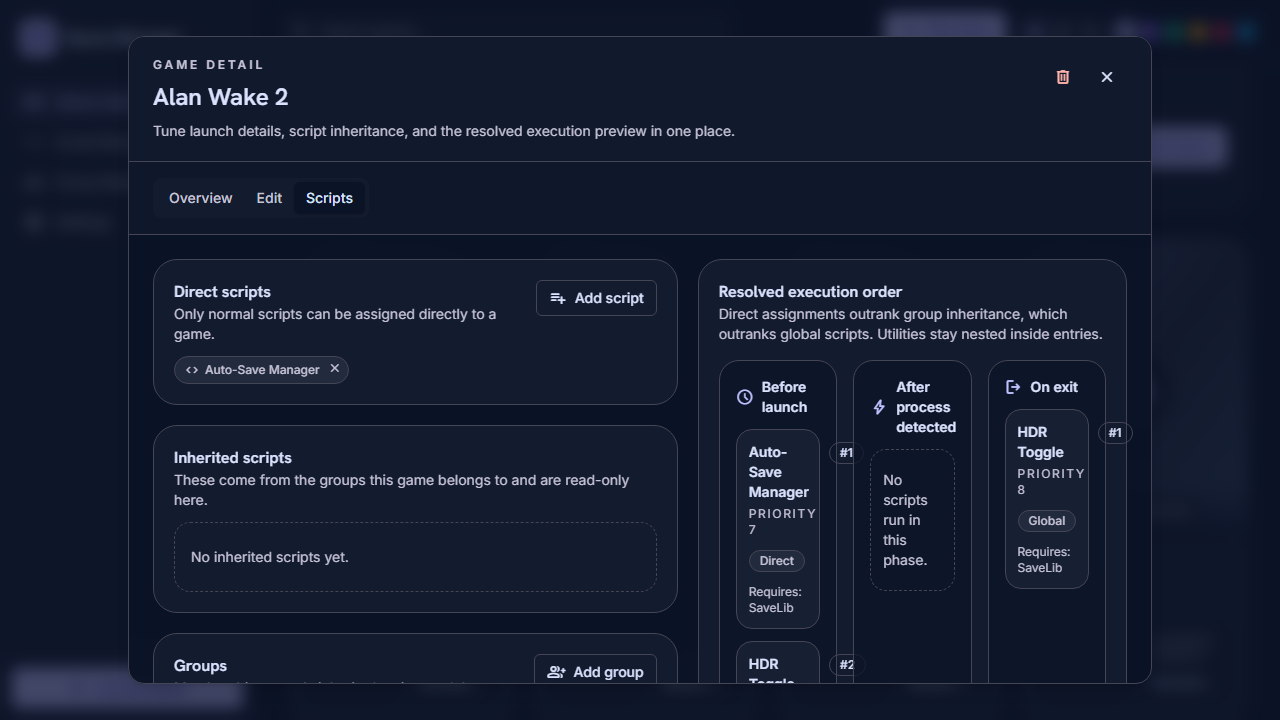
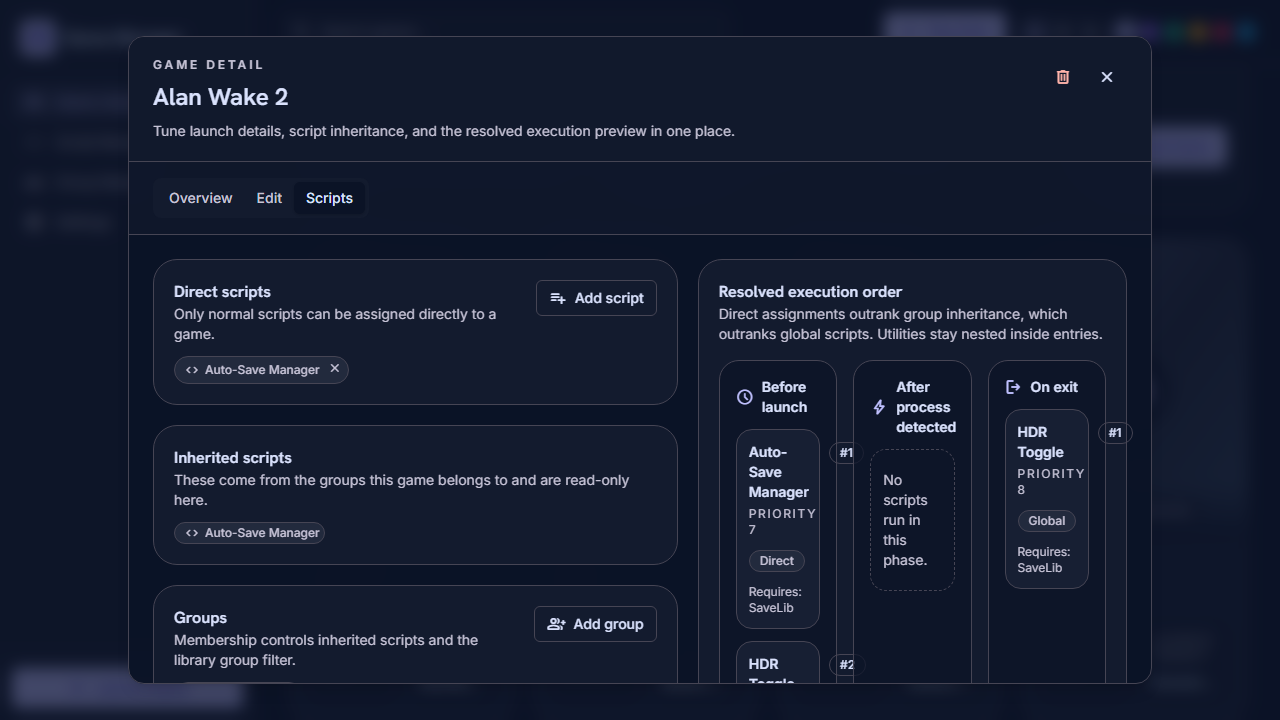
Update tests for game and group management by adding rollback scenarios for failed mutations. Enhance integration tests to validate error handling for missing required fields and logging behavior when external API calls fail. Update screenshots for game detail views to reflect recent changes.

diff --git a/src/tests/lib/queries/use-games.test.tsx b/src/tests/lib/queries/use-games.test.tsx
@@ -183,4 +183,44 @@ describe('game mutations', () => {
     expect(client.getQueryData(gameDetailQueryKey(1))).toEqual({ ...GAME_ROW, scriptIds: [8] })
     expect(client.getQueryState(resolvedScriptsQueryKey(1))?.isInvalidated).toBe(true)
   })
+
+  it('rolls back optimistic group ids when set_game_groups fails', async () => {
+    ipc.override('set_game_groups', () => {
+      throw new Error('network down')
+    })
+
+    const { client, Wrapper } = createWrapper()
+    const previousGame = { ...GAME_ROW, groupIds: [5] }
+    client.setQueryData(GAMES_QUERY_KEY, [previousGame])
+    client.setQueryData(gameDetailQueryKey(1), previousGame)
+
+    const mutation = renderHook(() => useSetGameGroupsMutation(), { wrapper: Wrapper })
+
+    await expect(
+      mutation.result.current.mutateAsync({ gameId: 1, groupIds: [2, 1] })
+    ).rejects.toThrow('network down')
+
+    expect(client.getQueryData(GAMES_QUERY_KEY)).toEqual([previousGame])
+    expect(client.getQueryData(gameDetailQueryKey(1))).toEqual(previousGame)
+  })
+
+  it('rolls back optimistic script ids when set_game_scripts fails', async () => {
+    ipc.override('set_game_scripts', () => {
+      throw new Error('save failed')
+    })
+
+    const { client, Wrapper } = createWrapper()
+    const previousGame = { ...GAME_ROW, scriptIds: [3] }
+    client.setQueryData(GAMES_QUERY_KEY, [previousGame])
+    client.setQueryData(gameDetailQueryKey(1), previousGame)
+
+    const mutation = renderHook(() => useSetGameScriptsMutation(), { wrapper: Wrapper })
+
+    await expect(
+      mutation.result.current.mutateAsync({ gameId: 1, scriptIds: [8] })
+    ).rejects.toThrow('save failed')
+
+    expect(client.getQueryData(GAMES_QUERY_KEY)).toEqual([previousGame])
+    expect(client.getQueryData(gameDetailQueryKey(1))).toEqual(previousGame)
+  })
 })

diff --git a/src/tests/lib/queries/use-groups.test.tsx b/src/tests/lib/queries/use-groups.test.tsx
@@ -197,4 +197,23 @@ describe('group mutations', () => {
     await waitFor(() => expect(gamesVersion).toBeGreaterThan(0))
     gamesQuery.unmount()
   })
+
+  it('rolls back optimistic script ids when set_group_scripts fails', async () => {
+    ipc.override('set_group_scripts', () => {
+      throw new Error('save failed')
+    })
+
+    const { client, Wrapper } = createWrapper()
+    client.setQueryData(GROUPS_QUERY_KEY, [GROUP_ROW])
+    client.setQueryData(groupDetailQueryKey(1), GROUP_ROW)
+
+    const mutation = renderHook(() => useSetGroupScriptsMutation(), { wrapper: Wrapper })
+
+    await expect(
+      mutation.result.current.mutateAsync({ groupId: 1, scriptIds: [8] })
+    ).rejects.toThrow('save failed')
+
+    expect(client.getQueryData(GROUPS_QUERY_KEY)).toEqual([GROUP_ROW])
+    expect(client.getQueryData(groupDetailQueryKey(1))).toEqual(GROUP_ROW)
+  })
 })

diff --git a/src/tests/routes/route-placeholder.test.tsx b/src/tests/routes/route-placeholder.test.tsx
@@ -1,0 +1,19 @@
+import { render, screen } from '@testing-library/react'
+import { describe, expect, it } from 'vitest'
+
+import { RoutePlaceholder } from '@/routes/route-placeholder'
+
+describe('RoutePlaceholder', () => {
+  it('renders the title, description, and icon', () => {
+    render(
+      <RoutePlaceholder
+        title="Script Manager"
+        description="Manage launch scripts for your library."
+        icon="terminal"
+      />
+    )
+
+    expect(screen.getByRole('heading', { name: 'Script Manager' })).toBeInTheDocument()
+    expect(screen.getByText('Manage launch scripts for your library.')).toBeInTheDocument()
+  })
+})

diff --git a/src-tauri/tests/art_commands_integration.rs b/src-tauri/tests/art_commands_integration.rs
@@ -678,3 +678,109 @@ fn validate_remote_art_url_allows_steam_subdomains() {
     cache::validate_remote_art_url("https://cdn.akamai.steamstatic.com/steam/apps/730/library_600x900.jpg")
         .unwrap();
 }
+
+#[test]
+fn search_art_impl_logs_when_default_providers_fail() {
+    let (state, _dir) = temp_state();
+    set_setting_impl(&state, "steamgriddb_api_key", "sgdb-key").unwrap();
+    set_setting_impl(&state, "steam_api_key", "steam-key").unwrap();
+
+    let listener = TcpListener::bind("127.0.0.1:0").unwrap();
+    let addr = listener.local_addr().unwrap();
+    let handle = thread::spawn(move || {
+        for _ in 0..2 {
+            let (mut stream, _) = listener.accept().unwrap();
+            let mut buf = [0_u8; 1024];
+            let _ = stream.read(&mut buf);
+            stream
+                .write_all(
+                    b"HTTP/1.1 500 Internal Server Error\r\nContent-Length: 0\r\nConnection: close\r\n\r\n",
+                )
+                .unwrap();
+        }
+    });
+    let base = format!("http://{addr}");
+    let _search = EnvGuard::set("GM_TEST_STEAMGRIDDB_SEARCH_BASE", format!("{base}/search"));
+    let _grid = EnvGuard::set("GM_TEST_STEAMGRIDDB_GRID_BASE", format!("{base}/grids"));
+    let _steam = EnvGuard::set("GM_TEST_STEAM_APP_LIST_URL", format!("{base}/app-list"));
+
+    let art = search_art_impl(&state, "Hades").unwrap();
+    handle.join().unwrap();
+    assert!(art.is_empty());
+
+    let messages = log_messages(&state);
+    assert!(messages.contains(&"SteamGridDB art search failed".to_string()));
+    assert!(messages.contains(&"Steam metadata fallback art search failed".to_string()));
+}
+
+#[test]
+fn fetch_metadata_impl_logs_when_default_provider_fails() {
+    let (state, _dir) = temp_state();
+    set_setting_impl(&state, "steam_api_key", "steam-key").unwrap();
+
+    let listener = TcpListener::bind("127.0.0.1:0").unwrap();
+    let addr = listener.local_addr().unwrap();
+    let handle = thread::spawn(move || {
+        let (mut stream, _) = listener.accept().unwrap();
+        let mut buf = [0_u8; 1024];
+        let _ = stream.read(&mut buf);
+        stream
+            .write_all(
+                b"HTTP/1.1 500 Internal Server Error\r\nContent-Length: 0\r\nConnection: close\r\n\r\n",
+            )
+            .unwrap();
+    });
+    let _steam = EnvGuard::set("GM_TEST_STEAM_APP_LIST_URL", format!("http://{addr}/app-list"));
+
+    let metadata = fetch_metadata_impl(&state, "Hades").unwrap();
+    handle.join().unwrap();
+    assert_eq!(metadata.canonical_name, "Hades");
+    assert_eq!(metadata.source, ArtSource::Input);
+
+    let messages = log_messages(&state);
+    assert!(messages.contains(&"Steam metadata lookup failed".to_string()));
+}
+
+#[test]
+fn search_art_with_providers_logs_missing_api_keys() {
+    let (state, _dir) = temp_state();
+    let art = search_art_with_providers(
+        &state,
+        "Hades",
+        &|_, _, _| Ok(vec![]),
+        &|_, _, _| Ok(vec![]),
+    )
+    .unwrap();
+    assert!(art.is_empty());
+
+    let messages = log_messages(&state);
+    assert!(messages.contains(&"SteamGridDB art search skipped".to_string()));
+    assert!(messages.contains(&"Steam metadata fallback art search skipped".to_string()));
+}
+
+#[test]
+fn search_art_with_providers_returns_empty_for_blank_name() {
+    let (state, _dir) = temp_state();
+    let art = search_art_with_providers(
+        &state,
+        "   ",
+        &|_, _, _| panic!("providers must not run for blank input"),
+        &|_, _, _| panic!("providers must not run for blank input"),
+    )
+    .unwrap();
+    assert!(art.is_empty());
+}
+
+#[test]
+fn fetch_metadata_with_provider_logs_missing_steam_key() {
+    let (state, _dir) = temp_state();
+    let metadata = fetch_metadata_with_provider(&state, "Hades", &|_, _, _| {
+        panic!("provider must not run when steam key is missing")
+    })
+    .unwrap();
+    assert_eq!(metadata.canonical_name, "Hades");
+    assert_eq!(metadata.source, ArtSource::Input);
+
+    let messages = log_messages(&state);
+    assert!(messages.contains(&"Steam metadata lookup skipped".to_string()));
+}

diff --git a/src-tauri/tests/resolver_commands_integration.rs b/src-tauri/tests/resolver_commands_integration.rs
@@ -148,3 +148,52 @@ fn resolved_scripts_merge_dedupe_sort_and_exclude_utilities() {
     assert_eq!(on_exit[0].script_id, group_only_id);
     assert_eq!(on_exit[1].script_id, global_id);
 }
+
+#[test]
+fn resolved_scripts_skip_utility_scripts_assigned_to_groups() {
+    let state = state();
+    let game = create_game_impl(&state, game_input("Utility Group")).unwrap();
+
+    let (group_id, utility_id, normal_id) = state
+        .with_db(|conn| {
+            let group_id = groups::create(
+                conn,
+                &groups::NewGroup {
+                    name: "Helpers".into(),
+                    description: None,
+                },
+            )?;
+            let utility_id = scripts::create(conn, &utility_script("Shared Helpers", &[]))?;
+            let normal_id = scripts::create(conn, &normal_script("Runner", 5, true, false, false))?;
+            groups::set_scripts(conn, group_id, &[utility_id, normal_id])?;
+            Ok((group_id, utility_id, normal_id))
+        })
+        .unwrap();
+
+    set_game_groups_impl(&state, game.id, vec![group_id]).unwrap();
+
+    let resolved = get_resolved_scripts_impl(&state, game.id).unwrap();
+    assert!(resolved.iter().all(|entry| entry.script_id != utility_id));
+    assert_eq!(resolved.len(), 1);
+    assert_eq!(resolved[0].script_id, normal_id);
+}
+
+#[test]
+fn resolved_scripts_error_when_dependency_is_not_utility() {
+    let state = state();
+    let game = create_game_impl(&state, game_input("Bad Deps")).unwrap();
+
+    let normal_id = state
+        .with_db(|conn| {
+            let helper_id = scripts::create(conn, &normal_script("Helper", 5, false, false, false))?;
+            let runner_id = scripts::create(conn, &normal_script("Runner", 5, true, false, false))?;
+            scripts::set_dependencies(conn, runner_id, &[helper_id])?;
+            Ok(runner_id)
+        })
+        .unwrap();
+
+    set_game_scripts_impl(&state, game.id, vec![normal_id]).unwrap();
+
+    let err = get_resolved_scripts_impl(&state, game.id).expect_err("non-utility dependency");
+    assert!(err.to_string().contains("not a utility dependency"));
+}

diff --git a/src-tauri/tests/games_commands_integration.rs b/src-tauri/tests/games_commands_integration.rs
@@ -186,3 +186,20 @@ fn delete_game_errors_when_missing() {
     let err = delete_game_impl(&state, 9999).expect_err("missing game should error");
     assert_eq!(err.to_string(), "game 9999 not found");
 }
+
+#[test]
+fn create_and_update_validate_required_fields() {
+    let state = state();
+
+    let mut blank_name = game_input("Valid");
+    blank_name.name = "   ".to_string();
+    assert!(create_game_impl(&state, blank_name).is_err());
+
+    let mut blank_target = game_input("Valid");
+    blank_target.launch_target = "  ".to_string();
+    assert!(create_game_impl(&state, blank_target).is_err());
+
+    let err = update_game_impl(&state, 9999, game_input("Missing"))
+        .expect_err("missing game should error on update");
+    assert_eq!(err.to_string(), "game 9999 not found");
+}

diff --git a/src-tauri/tests/smoke_integration.rs b/src-tauri/tests/smoke_integration.rs
@@ -61,3 +61,19 @@ fn init_tracing_is_idempotent() {
     init_tracing();
     init_tracing();
 }
+
+#[test]
+fn app_state_with_db_reports_poisoned_mutex() {
+    let state = AppState::in_memory().expect("in-memory state");
+    let poisoned = std::panic::catch_unwind(std::panic::AssertUnwindSafe(|| {
+        let _ = state.with_db(|_| -> AppResult<()> {
+            panic!("poison mutex for test");
+        });
+    }));
+    assert!(poisoned.is_err());
+
+    let err = state
+        .with_db(|_| Ok(()))
+        .expect_err("poisoned mutex must surface as database error");
+    assert!(err.to_string().contains("mutex poisoned"));
+}

diff --git a/src-tauri/tests/logging_retention_integration.rs b/src-tauri/tests/logging_retention_integration.rs
@@ -87,6 +87,21 @@ fn retention_deletes_old_rows_and_vacuums() {
 }
 
 #[test]
+fn logs_repo_rejects_invalid_stored_level() {
+    let conn = open_in_memory().unwrap();
+    conn.pragma_update(None, "ignore_check_constraints", "ON")
+        .unwrap();
+    conn.execute(
+        "INSERT INTO logs (ts, level, category, message) VALUES (?1, ?2, ?3, ?4)",
+        rusqlite::params!["2026-01-01T00:00:00Z", "not-a-level", "c", "m"],
+    )
+    .unwrap();
+    let id = conn.last_insert_rowid();
+    assert!(logs::get(&conn, id).is_err());
+    assert!(logs::list_recent(&conn, 1).is_err());
+}
+
+#[test]
 fn log_frontend_persists_row_readable_via_repo() {
     let state = AppState::in_memory().unwrap();
 

diff --git a/src-tauri/tests/app_data_dir_integration.rs b/src-tauri/tests/app_data_dir_integration.rs
@@ -23,3 +23,17 @@ fn resolved_app_data_dir_unchanged_when_no_file_name() {
     let resolved = game_manager_lib::resolved_app_data_dir(base);
     assert_eq!(resolved, base);
 }
+
+#[test]
+fn resolved_app_data_dir_appends_dev_suffix_when_basename_has_no_extension() {
+    let base = Path::new("parent").join("gamemanager");
+    let resolved = game_manager_lib::resolved_app_data_dir(&base);
+    #[cfg(debug_assertions)]
+    {
+        assert_eq!(resolved, Path::new("parent").join("gamemanager-dev"));
+    }
+    #[cfg(not(debug_assertions))]
+    {
+        assert_eq!(resolved, base);
+    }
+}